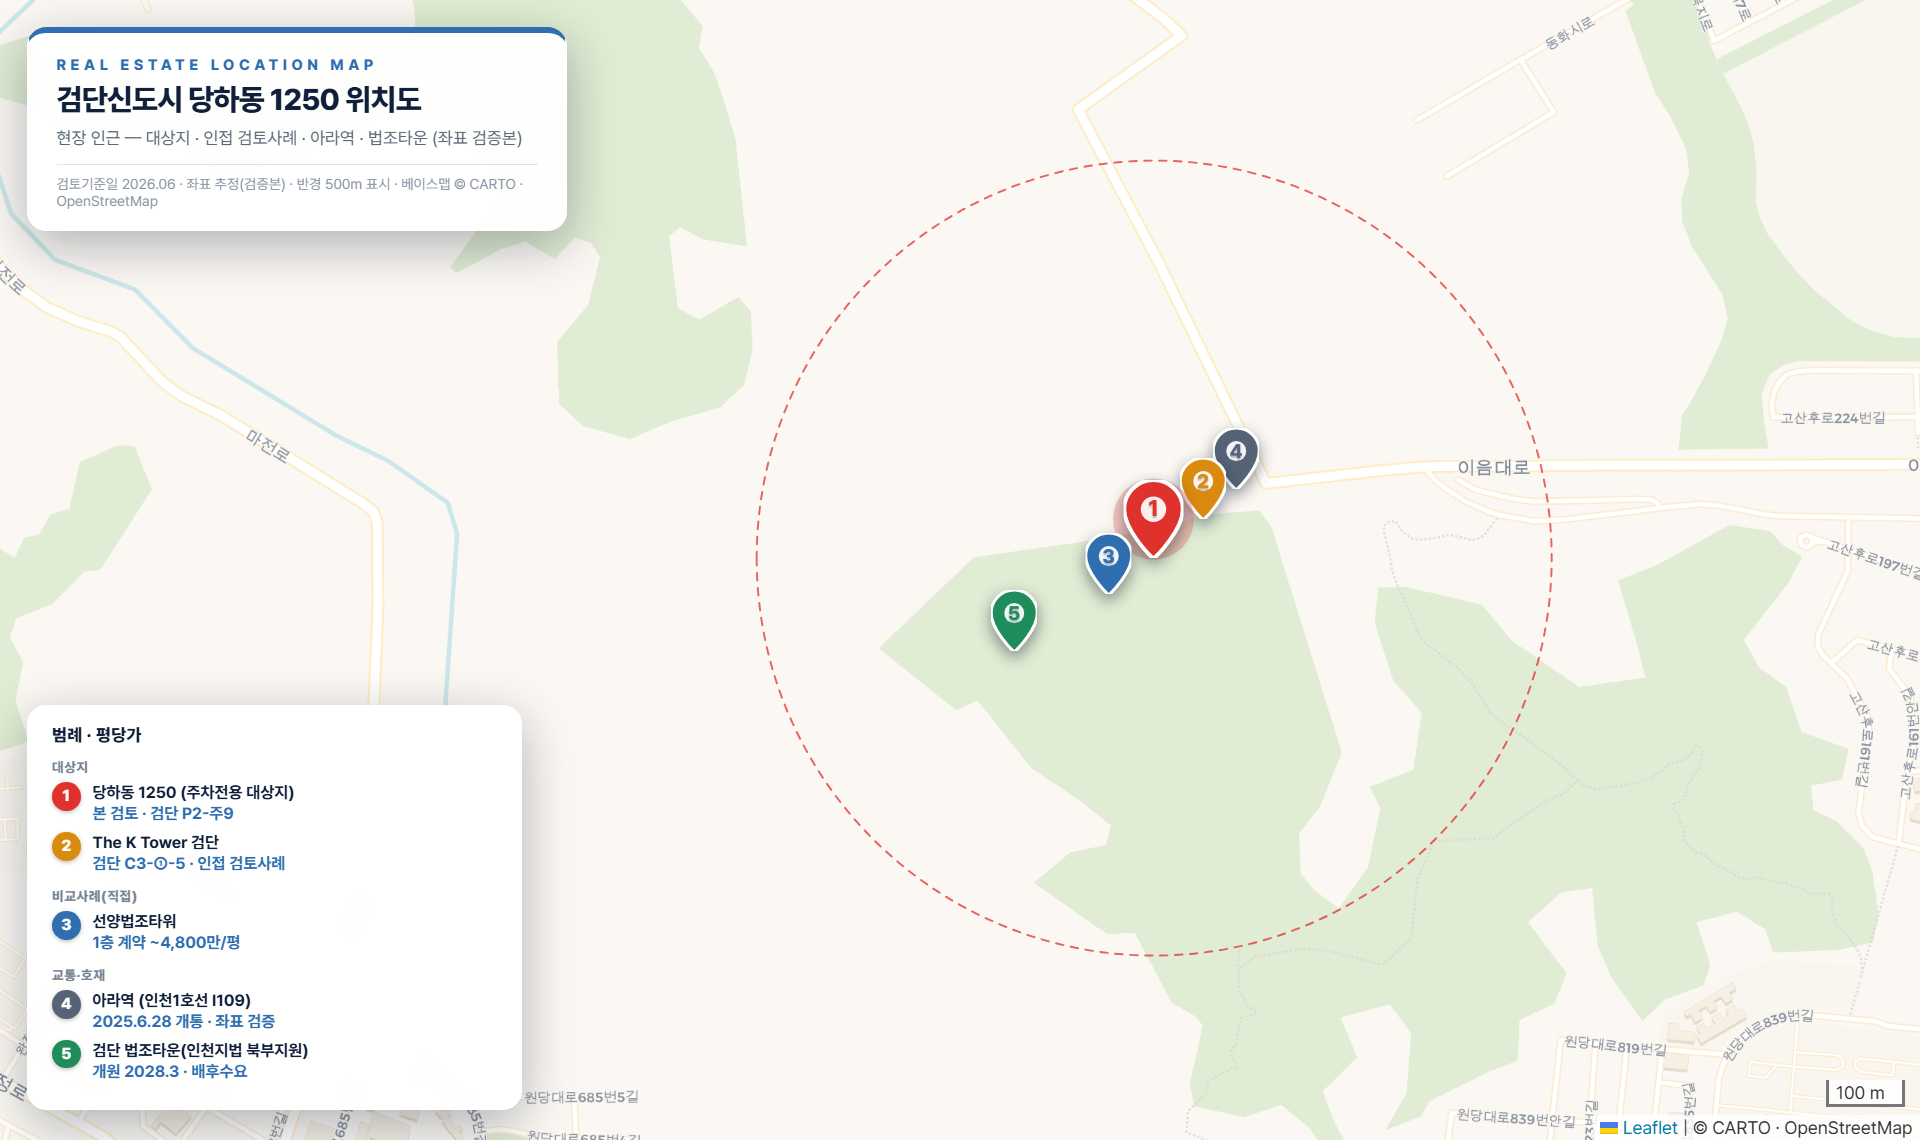
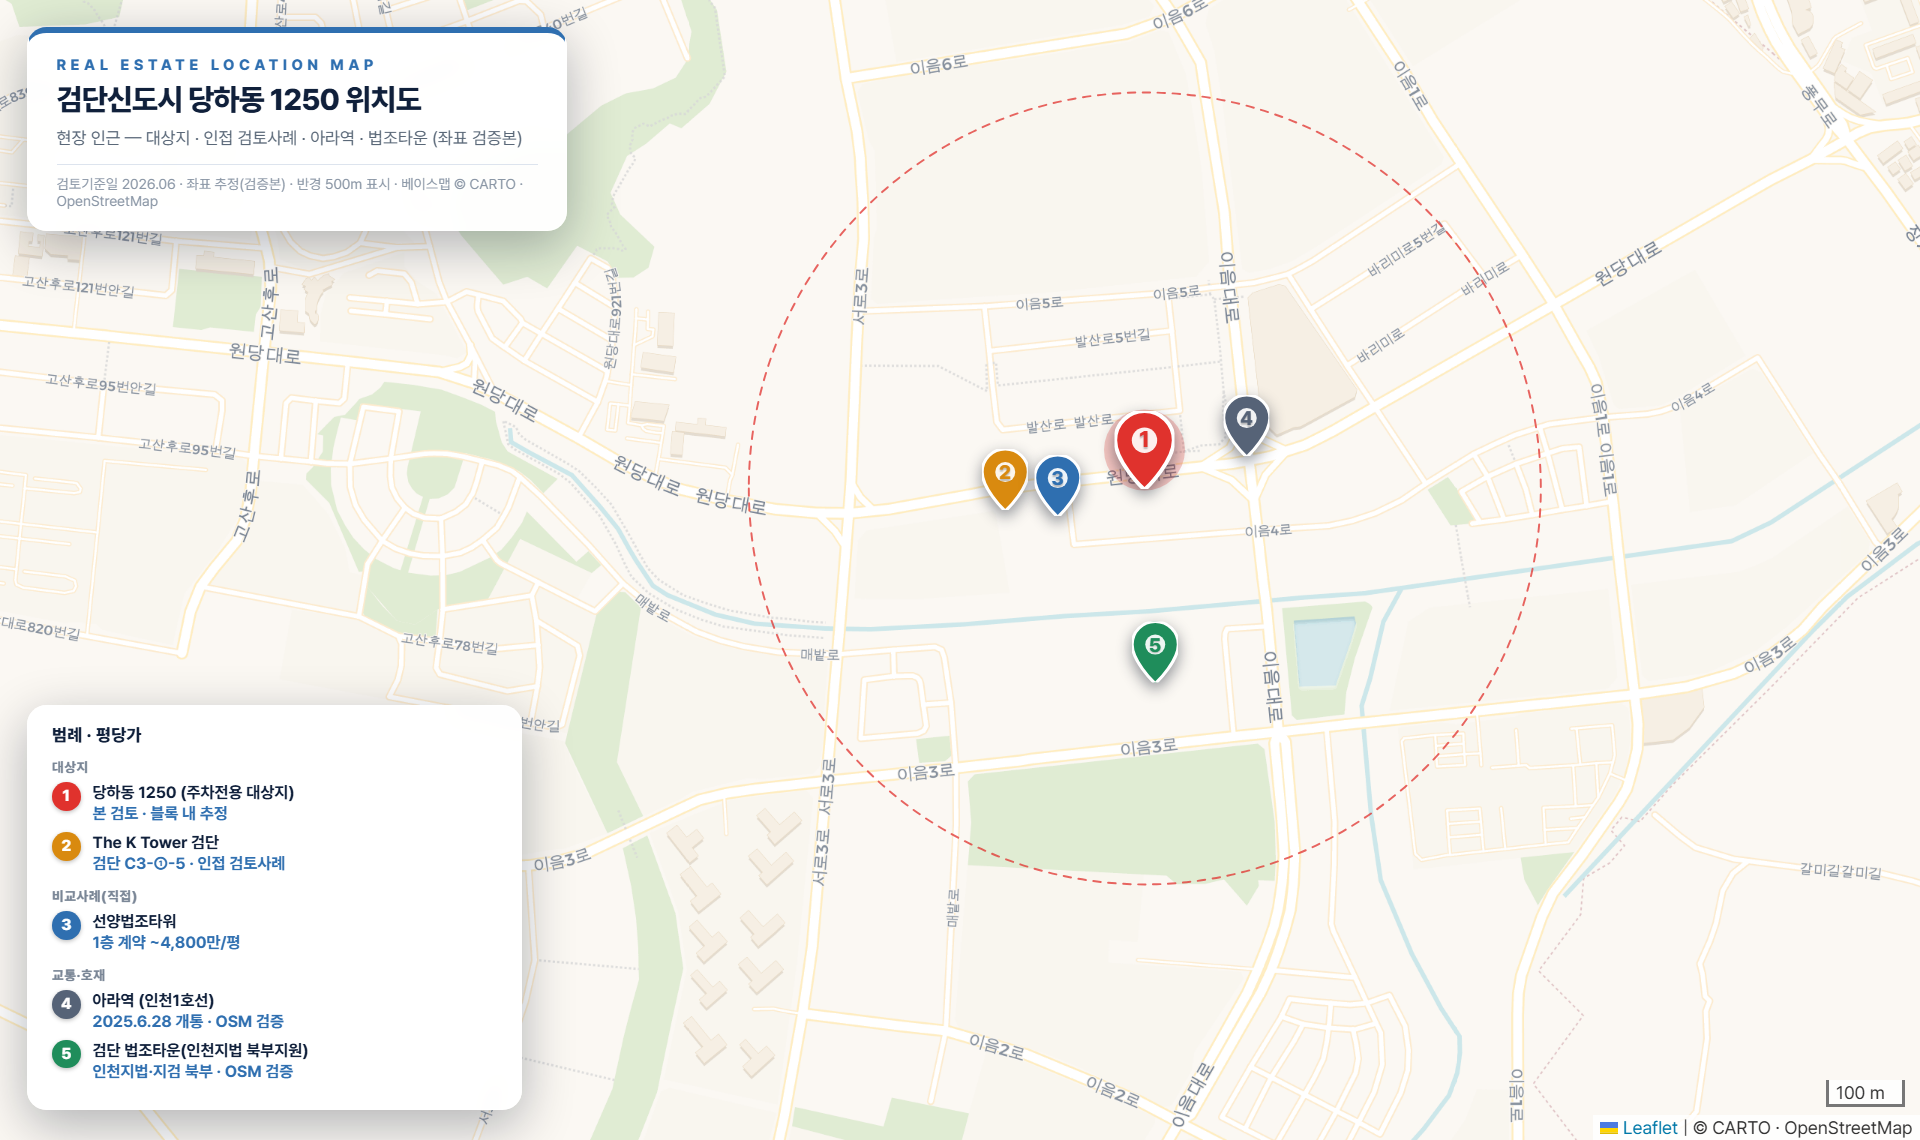
위치도 좌표 전면 재보정 — OSM/위키 검증으로 정확 위치 확정(기존 약 2.3km 오류 수정)
- 기존 좌표(126.688)는 사실 검단호수공원역 자리였음. 실제 대상지 일대는 아라역·법조타운
  클러스터(126.710~126.713)로, OSM/위키피디아 교차검증으로 확정:
  · 아라역=37.5923,126.7133(위키·OSM) · 인천지법 북부지원=37.5897,126.7120(OSM)
  · KR/선양법조타워(당하동 1235)=37.5915,126.7103(OSM)
  · 대상지 1250·The K Tower 1237=인근 블록 추정(OSM 미등재)
- map_locator.png 정확 좌표로 재렌더(실제 개발된 검단 P2/법조타운·이음대로 일대). 캡션을
  'OSM 검증/블록 추정' 구분 표기로 갱신. report·deck 양쪽 반영, PDF 재생성.
- map_locator_edit.html(드래그 보정 도구) 시드 좌표도 정확 위치로 갱신.

diff --git a/dangha-parking/map_locator_edit.html b/dangha-parking/map_locator_edit.html
@@ -53,15 +53,15 @@
 <script>
 // 확정 지번 주소(웹 검색) + 시작 좌표(보정 전 추정) — 사용자가 드래그로 정확히 보정
 const PLACES = [
-  {n:"① 당하동 1250 (대상지)",   q:"인천 서구 당하동 1250 (검단 P2-주9, 주차전용 대상지)", color:"#e0322d", ll:[37.60160,126.68690], big:true},
-  {n:"② The K Tower 검단",       q:"인천 서구 당하동 1237 (검단 C3-①-5)",                color:"#d98a0f", ll:[37.60205,126.68760]},
-  {n:"③ 선양법조타워(비교사례)", q:"인천 서구 당하동 1235-6 (지하1~지상7, 법조타운 인접)", color:"#2f6fb0", ll:[37.60120,126.68625]},
-  {n:"④ 아라역(인천1호선 I109)",  q:"인천 서구 당하동 1238 일원",                          color:"#566377", ll:[37.602386,126.688074]},
-  {n:"⑤ 검단 법조타운",          q:"인천지법 북부지원·지검(선양법조타워 인접)",            color:"#1f8d5b", ll:[37.60055,126.68490]},
+  {n:"① 당하동 1250 (대상지)",   q:"인천 서구 당하동 1250 (검단 P2-주9, 주차전용 대상지)", color:"#e0322d", ll:[37.59190,126.71185], big:true},
+  {n:"② The K Tower 검단",       q:"인천 서구 당하동 1237 (검단 C3-①-5)",                color:"#d98a0f", ll:[37.59165,126.70985]},
+  {n:"③ 선양법조타워(비교사례)", q:"인천 서구 당하동 1235-6 (KR법조타워 옆, OSM 1235-2=37.5915,126.7103)", color:"#2f6fb0", ll:[37.59158,126.71060]},
+  {n:"④ 아라역(인천1호선)",      q:"인천 서구 당하동 1238 (OSM 검증 37.5923,126.7133)",   color:"#566377", ll:[37.592259,126.713301]},
+  {n:"⑤ 검단 법조타운",          q:"인천지법 북부지원(OSM 검증 37.5897,126.7120)",        color:"#1f8d5b", ll:[37.589701,126.711991]},
 ];
 const sat = L.tileLayer('https://server.arcgisonline.com/ArcGIS/rest/services/World_Imagery/MapServer/tile/{z}/{y}/{x}',{maxZoom:19,attribution:'© Esri'});
 const street = L.tileLayer('https://a.basemaps.cartocdn.com/rastertiles/voyager/{z}/{x}/{y}{r}.png',{maxZoom:20,attribution:'© CARTO'});
-const map = L.map('map',{zoomControl:true}).setView([37.6013,126.6868],17);
+const map = L.map('map',{zoomControl:true}).setView([37.5910,126.7116],17);
 let cur='sat'; sat.addTo(map);
 document.getElementById('seg').addEventListener('click',e=>{const b=e.target.dataset.b;if(!b)return;
   document.querySelectorAll('#seg button').forEach(x=>x.classList.toggle('on',x.dataset.b===b));

diff --git a/dangha-parking/map_locator.html b/dangha-parking/map_locator.html
@@ -57,11 +57,11 @@
 // ===== 지점 정의 (아라역=37.602386,126.688074 검증좌표 앵커 · 인근 연번필지 보정) =====
 // 메트로시티·iH웰카운티는 검단 내 위치 미특정(원용 벤치마크)이라 지도 핀 제외 → §4 비교사례 표에서 다룸.
 const PLACES = [
-  {n:"당하동 1250 (주차전용 대상지)", q:"인천광역시 서구 당하동 1250", grp:"대상지", pr:"본 검토 · 검단 P2-주9", color:"#e0322d", ll:[37.60160,126.68690], big:true},
-  {n:"The K Tower 검단", q:"인천광역시 서구 당하동 1237", grp:"대상지", pr:"검단 C3-①-5 · 인접 검토사례", color:"#d98a0f", ll:[37.60205,126.68760]},
-  {n:"선양법조타워", q:"인천광역시 서구 당하동 1235-6", grp:"비교사례(직접)", pr:"1층 계약 ~4,800만/평", color:"#2f6fb0", ll:[37.60120,126.68625]},
-  {n:"아라역 (인천1호선 I109)", q:"인천광역시 서구 당하동 1238", grp:"교통·호재", pr:"2025.6.28 개통 · 좌표 검증", color:"#566377", ll:[37.602386,126.688074]},
-  {n:"검단 법조타운(인천지법 북부지원)", q:"인천광역시 서구 당하동 191 일원", grp:"교통·호재", pr:"개원 2028.3 · 배후수요", color:"#1f8d5b", ll:[37.60055,126.68490]},
+  {n:"당하동 1250 (주차전용 대상지)", q:"인천광역시 서구 당하동 1250 (검단 P2-주9)", grp:"대상지", pr:"본 검토 · 블록 내 추정", color:"#e0322d", ll:[37.59190,126.71185], big:true},
+  {n:"The K Tower 검단", q:"인천광역시 서구 당하동 1237", grp:"대상지", pr:"검단 C3-①-5 · 인접 검토사례", color:"#d98a0f", ll:[37.59165,126.70985]},
+  {n:"선양법조타워", q:"인천광역시 서구 당하동 1235-6", grp:"비교사례(직접)", pr:"1층 계약 ~4,800만/평", color:"#2f6fb0", ll:[37.59158,126.71060]},
+  {n:"아라역 (인천1호선)", q:"인천광역시 서구 당하동 1238", grp:"교통·호재", pr:"2025.6.28 개통 · OSM 검증", color:"#566377", ll:[37.592259,126.713301]},
+  {n:"검단 법조타운(인천지법 북부지원)", q:"인천 서구 검단 법조타운", grp:"교통·호재", pr:"인천지법·지검 북부 · OSM 검증", color:"#1f8d5b", ll:[37.589701,126.711991]},
 ];
 
 const sat = L.tileLayer('https://a.basemaps.cartocdn.com/rastertiles/voyager/{z}/{x}/{y}{r}.png',

diff --git a/dangha-parking/deck.html b/dangha-parking/deck.html
@@ -295,7 +295,7 @@
   <div class="sbody">
     <figure class="dwg" style="margin:0">
       <div class="im"><span class="no">SITE LOCATOR</span><img src="map_locator.png" alt="당하동 1250 위치도" style="object-fit:contain;background:#eef2f7"></div>
-      <div class="cap"><b>대상지(①, 당하동 1250 P2-주9)</b> 반경 500m · 인접 검토사례 The K Tower(②) · 직접 비교사례 선양법조타워(③, 1층 ~4,800만/평) · 교통·호재 아라역(④)·법조타운(⑤). 핀은 좌표 검증 앵커 <b>아라역(당하동 1238)</b> 기준 인근 연번필지로 보정한 <b>추정(검증본)</b>. 베이스맵 © CARTO·OpenStreetMap · 2026.06</div>
+      <div class="cap"><b>대상지(①, 당하동 1250 P2-주9)</b> 반경 500m · The K Tower(②) · 선양법조타워(③) · 아라역(④) · 법조타운(⑤). <b>아라역·법조타운은 OSM 검증 좌표</b>, 대상지·The K Tower는 인근 블록 기준 추정. 메트로시티·iH는 다른 구역(검단 C12·원당동)이라 제외(§4 표 단가만). 베이스맵 © CARTO·OpenStreetMap · 2026.06</div>
     </figure>
   </div>
   <div class="sfoot"><span>당하동 1250 주차전용건축물 · 분양성 검토</span><span class="cf">CONFIDENTIAL</span><span class="pg"></span></div>

diff --git a/dangha-parking/report.html b/dangha-parking/report.html
@@ -232,7 +232,7 @@
   <div class="sbody">
     <div class="figbox" style="flex:1 1 auto;">
       <div class="im"><span class="no">SITE LOCATOR</span><img src="map_locator.png" alt="당하동 1250 위치도"></div>
-      <div class="cap"><b>대상지(①, 당하동 1250 P2-주9)</b> 반경 500m · 인접 The K Tower(②) · 직접 비교사례 선양법조타워(③, 1층 ~4,800만/평) · 교통·호재 아라역(④)·법조타운(⑤). 핀은 좌표 검증 앵커 <b>아라역(당하동 1238)</b> 기준 보정 추정(검증본). 베이스맵 © CARTO·OpenStreetMap · 2026.06</div>
+      <div class="cap"><b>대상지(①, 당하동 1250 P2-주9)</b> 반경 500m · The K Tower(②) · 선양법조타워(③) · 아라역(④) · 법조타운(⑤). <b>아라역·법조타운·법조타워는 OSM 검증 좌표</b>이고, 대상지(①)·The K Tower(②)는 인근 블록 기준 <b>추정</b>(정확 경계는 지적도·현황측량 확인). 메트로시티·iH웰카운티는 다른 구역(검단 C12·원당동)이라 본 근접 위치도에서 제외하고 §4 표에서 단가만 다룬다. 베이스맵 © CARTO·OpenStreetMap · 2026.06</div>
     </div>
   </div>
   <div class="sfoot"><span>당하동 1250 주차전용건축물 · 분양성 검토</span><span class="cf">CONFIDENTIAL</span><span class="pg"></span></div>